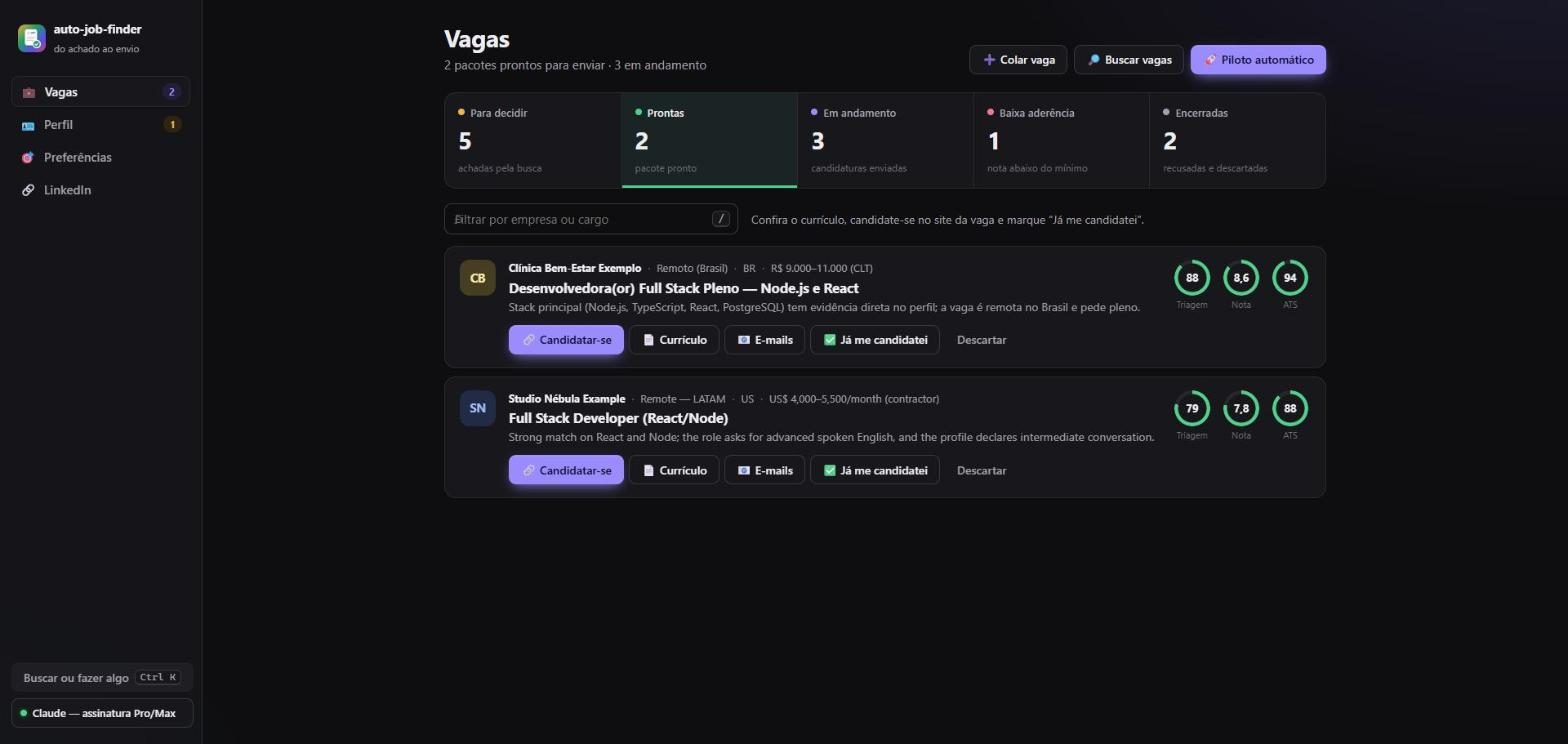
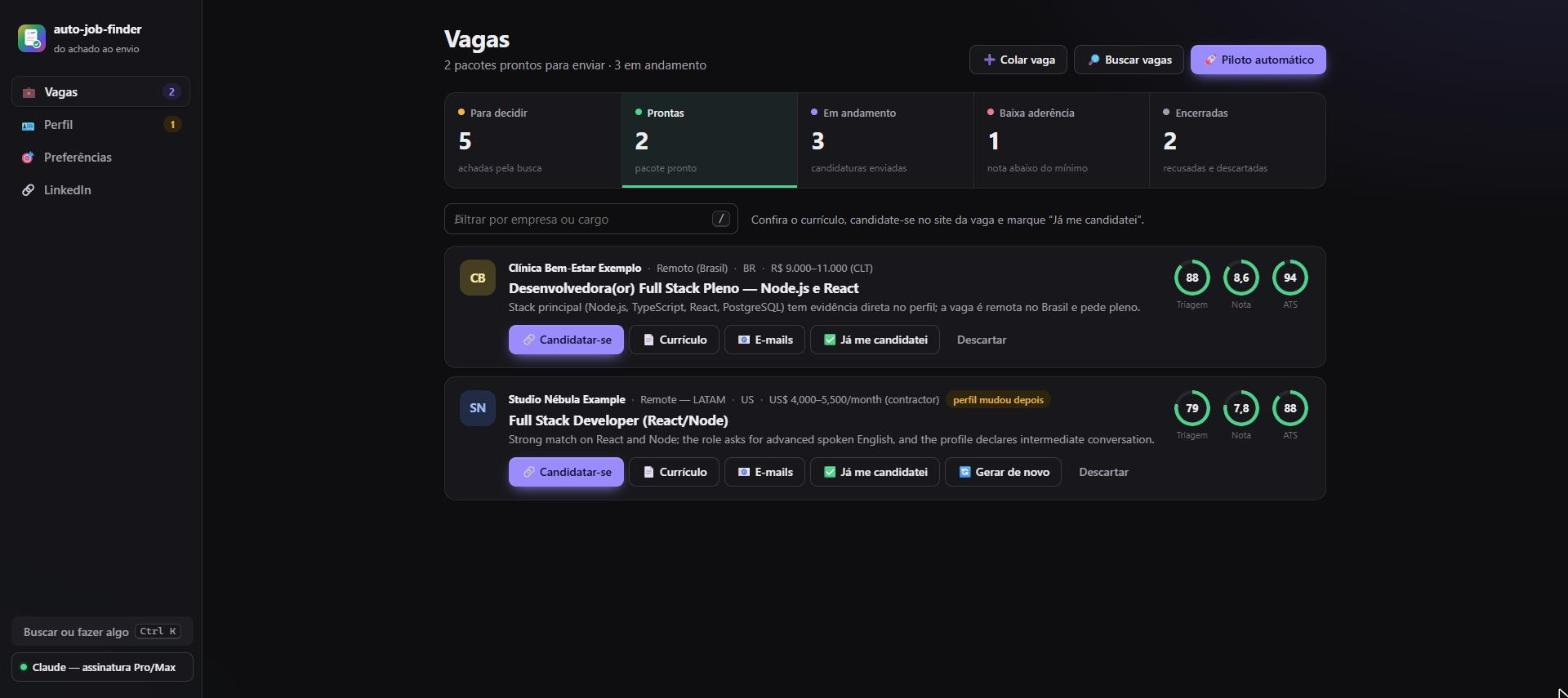
docs: atualizar o perfil e conferir o LinkedIn
Guia de uso (passo a passo com prints, comandos, dúvidas), como funciona (diagrama do fluxo de atualização e seção do LinkedIn), README e CLAUDE.md/AGENTS.md.

diff --git a/docs/guia-de-uso.md b/docs/guia-de-uso.md
@@ -87,7 +87,29 @@ A página **Perfil** é a parte mais importante. **Tudo o que o agente escreve s
 - **Pontos a confirmar:** a IA marca o que estava faltando ou não batia entre as fontes. Corrija no texto e troque `- [ ]` por `- [x]`.
 - **Editor do `profile_truth.md`:** ajuste o que quiser. Mantenha os títulos das seções (linhas com `##`). As seções "Lacunas", "A confirmar", "Nunca afirmar" e "Regras de comunicação" **não** contam como prova de nada; elas existem para o agente saber o que você *não* tem. Cada vez que você salva, a versão anterior vai para `profile/backup-edicoes/`.
 - **PDFs de conferência:** o currículo-base em português e em inglês, para ver como fica.
-- **Montar de novo:** refaz o perfil com fontes novas. O atual só é trocado no fim e vai para um backup.
+- **Montar de novo:** refaz o perfil do zero com fontes novas. O atual só é trocado no fim e vai para um backup.
+
+### Atualizar o perfil depois
+
+Fez um projeto novo, mudou de emprego, terminou um curso? Não precisa montar tudo de novo. Em **Perfil → 🆕 Atualizar o perfil**, clique em **➕ Contar uma novidade**:
+
+![Contar uma novidade](images/contar-novidade.jpg)
+
+1. **Conte com as suas palavras**, com datas e números reais (por exemplo, "Em 10/2026 saí da Empresa A e entrei na Empresa B como Desenvolvedora Pleno"). Também dá para mandar um currículo atualizado, o PDF do LinkedIn ou um link.
+2. **A IA prepara uma proposta.** Ela usa só o que você contou: o que faltar (a data de início, as atividades do cargo novo) vira "a confirmar".
+3. **Você confere o antes e o depois**, linha por linha, antes de salvar:
+
+   ![Proposta de atualização com o antes e o depois](images/perfil-atualizar.jpg)
+
+4. **✅ Aplicar e refazer os currículos:** o perfil atual vai para um backup, o `profile_truth.md` é atualizado e os currículos-base em português e inglês são refeitos, mantendo a redação do que não mudou. Leva alguns minutos.
+
+Depois de aplicar:
+- **Pacotes prontos feitos antes da mudança** aparecem com o aviso **"perfil mudou depois"** e o botão **🔄 Gerar de novo**. Candidaturas já enviadas não são marcadas.
+- **O plano do LinkedIn** avisa que ficou desatualizado (veja [LinkedIn](#8-linkedin)).
+
+**Editou o texto do perfil à mão?** Pequenas mudanças (um projeto, um resultado, uma ferramenta) já valem para os próximos pacotes. Mas, se você mexeu numa **experiência** (emprego novo, cargo, datas), clique em **🔄 Refazer currículos-base**: as travas só aceitam experiências que estão nos currículos-base, e eles não mudam sozinhos quando você edita o texto.
+
+> Se você editar o perfil depois de uma proposta pronta, ela não pode mais ser aplicada: descarte e conte a novidade de novo. Assim nada do que você editou à mão se perde.
 
 ## 4. O dia a dia: das vagas à candidatura
 
@@ -203,7 +225,22 @@ Fontes de vagas:
 
 ## 8. LinkedIn
 
-Na página **LinkedIn**, o agente monta um plano para o seu perfil atrair recrutadores das vagas que você quer: headline, "Sobre" em português e inglês, competências, destaques e Open to Work, tudo com fatos do seu perfil. Cole o texto atual do seu LinkedIn para ele apontar o que está inconsistente. **Ele nunca muda o seu LinkedIn**: você copia o que quiser.
+![Conferência do LinkedIn](images/linkedin.jpg)
+
+**O agente nunca acessa nem muda o seu LinkedIn.** O LinkedIn bloqueia programas, e a regra do projeto é você aplicar o que quiser. Por isso, para ele saber como o seu perfil está hoje, mande:
+- o **PDF do perfil**: no LinkedIn, **Mais → Salvar como PDF**, e depois **📄 Enviar o PDF do LinkedIn**; ou
+- o **texto** do perfil, colado na caixa.
+
+Com isso, você tem duas opções:
+
+| | O que faz | Quando usar |
+|---|---|---|
+| **✅ Conferir meu LinkedIn** | Compara o seu LinkedIn de hoje com o seu perfil e com o último plano. Mostra o que **corrigir** (datas, cargos, "certificado" que é curso, nível de idioma), o que **do plano ainda falta** e o que **já está certo** | Depois de mexer no LinkedIn, para ver o seu progresso. É rápido |
+| **✨ Gerar plano novo** | Escreve tudo de novo: headline, "Sobre" em português e inglês, experiências, competências, destaques, Open to Work e checklist | Na primeira vez, ou depois de mudar de objetivo ou de [atualizar o perfil](#atualizar-o-perfil-depois) |
+
+- **Cada plano e cada conferência é um retrato do dia em que foi gerado.** Eles não se atualizam sozinhos.
+- **Se o seu perfil mudar depois do plano,** a página avisa e sugere um plano novo.
+- **Os anteriores** ficam no **Histórico**.
 
 ## 9. A IA: escolher, testar e diagnosticar
 
@@ -226,6 +263,8 @@ profile/                   o seu perfil
   preferences.json         preferências de busca
   rules.json               frases que o agente nunca pode escrever
   sources/  entrada/       o texto lido das suas fontes e os arquivos enviados pela interface
+  atualizacao/             a proposta de atualização, até você aplicar ou descartar
+  backup-*/                versões anteriores do perfil (a cada "montar de novo", atualização ou edição)
 data/
   jobs.json                todas as vagas e o status de cada uma
   usage.jsonl              tokens usados em cada chamada de IA
@@ -234,7 +273,7 @@ output/
   2-em-andamento/          enviada, entrevista ou oferta
   3-baixa-aderencia/       nota abaixo do mínimo
   4-encerradas/            recusada ou descartada
-  base/  linkedin/         PDFs de conferência e planos de LinkedIn
+  base/  linkedin/         PDFs de conferência, planos e conferências do LinkedIn
   painel.html  tracker.csv resumo estático e histórico de status
 ```
 
@@ -264,17 +303,18 @@ Tudo da interface também existe no terminal.
 |---|---|
 | `ajf` · `ajf ui [--port 4317] [--no-open]` | Interface no navegador |
 | `ajf menu` | Menu no terminal |
-| `ajf init [arquivos ou links...]` | Monta ou refaz o perfil |
+| `ajf init [arquivos ou links...]` | Monta o perfil do zero |
+| `ajf atualizar [arquivos ou links...] [--texto "..."]` | Atualiza o perfil com uma novidade: mostra o antes e o depois e, se você aprovar, refaz os currículos-base. `--aplicar` aplica a proposta salva (feita aqui ou na interface), `--descartar` descarta, `-y` aplica sem perguntar |
 | `ajf ia [--escolher] [--testar]` | IAs encontradas e qual usar |
 | `ajf doctor` | Confere IA, navegador e arquivos do perfil |
-| `ajf base` | PDFs do currículo-base (sem IA) |
+| `ajf base [--refazer]` | PDFs do currículo-base (sem IA). Com `--refazer`, refaz os currículos-base a partir do `profile_truth.md` (usa IA) |
 | `ajf search [--web] [--hint "só Londrina"] [-q termos] [-s fontes] [-v]` | Busca vagas (`-v` mostra o que o filtro cortou) |
 | `ajf triage [--id <ids...>] [-l 10]` | Triagem das vagas novas, ou de novo das indicadas |
 | `ajf jobs [--status shortlisted] [-a]` · `ajf show <id>` | Lista e detalhes |
 | `ajf add --file vaga.md --company X --title Y` · `ajf add --url <link>` | Adiciona uma vaga |
 | `ajf tailor <id> [--interview] [--market US] [--lang en] [--paper Letter] [--cover/--no-cover]` | Gera o pacote |
 | `ajf render <pasta ou id>` | PDF de novo depois de editar `resume.json` |
-| `ajf linkedin [--current meu_linkedin.md]` | Plano de LinkedIn |
+| `ajf linkedin [--current perfil.pdf]` · `ajf linkedin --conferir --current perfil.pdf` | Plano de LinkedIn, ou a conferência do LinkedIn atual (PDF exportado ou texto em `.md`/`.txt`) |
 | `ajf enviei [empresa ou cargo] [--note "via Gupy"]` | Marca que você se candidatou (acha a vaga pelo nome) |
 | `ajf status [empresa, cargo ou id] [status]` | Muda o status (entrevista, oferta, recusa...) |
 | `ajf auto [--web/--no-web] [--max 3] [--interview] [--open]` | Piloto automático |
@@ -302,6 +342,12 @@ O agente não achou um navegador Chromium. Instale o Chrome, ou informe o caminh
 - Ligue a **busca na web com IA**: as fontes padrão são, em boa parte, de vagas internacionais, e a web traz LinkedIn, Gupy e Indeed.
 - Veja no andamento da busca quantas vagas cada filtro cortou, e afrouxe os **filtros pelo título** em Preferências.
 - Baixe a **triagem mínima** (por exemplo, para 60) e olhe a etapa "Para decidir".
+
+**Fiz um projeto novo ou mudei de emprego. Como atualizo?**
+Em **Perfil → ➕ Contar uma novidade** (ou `ajf atualizar --texto "..."`). Você confere o antes e o depois, e os currículos-base são refeitos. Depois, gere de novo os pacotes prontos marcados com "perfil mudou depois". Veja [Atualizar o perfil depois](#atualizar-o-perfil-depois).
+
+**O plano do LinkedIn mostra coisas que eu já mudei.**
+O plano é um retrato do dia em que foi gerado, e o agente não acessa o LinkedIn. Mande o PDF ou o texto atual do seu LinkedIn e clique em **✅ Conferir meu LinkedIn**: ele mostra o que já está certo e o que ainda falta. Veja [LinkedIn](#8-linkedin).
 
 **O LinkedIn não é lido.**
 O LinkedIn bloqueia leitura automática. No cadastro, use o PDF do perfil (**Mais → Salvar como PDF**); para vagas, cole o texto.

diff --git a/docs/como-funciona.md b/docs/como-funciona.md
@@ -9,6 +9,7 @@ Como o auto-job-finder vai de "tenho um currículo" a "pacote pronto para enviar
 - [4. O pacote de cada vaga](#4-o-pacote-de-cada-vaga)
 - [Anti-invenção](#anti-invenção)
 - [O caminho de uma vaga](#o-caminho-de-uma-vaga)
+- [LinkedIn](#linkedin)
 - [As IAs](#as-ias)
 - [A interface local](#a-interface-local)
 - [Organização do código](#organização-do-código)
@@ -46,6 +47,30 @@ Como funciona a montagem:
 3. Escreve os currículos-base (`buildBaseResume`).
 
 A instrução para a IA é a mesma em todas as etapas: **só registrar o que está nas fontes**. O que falta ou diverge entre as fontes vira "A confirmar".
+
+### Atualizar sem montar de novo
+
+Quando a carreira muda, `src/onboarding/update.ts` atualiza o perfil a partir de uma novidade:
+
+```mermaid
+flowchart LR
+    A["🆕 Novidade<br/>texto, currículo,<br/>PDF do LinkedIn, link"] --> B["🧠 Proposta<br/>profile_truth.md atualizado<br/>+ o que mudou + a confirmar"]
+    B --> C{"👀 Você confere<br/>o antes e o depois"}
+    C -- descartar --> X["nada muda"]
+    C -- aplicar --> D["💾 Backup do perfil<br/>+ profile_truth.md novo"]
+    D --> E["📄 Currículos-base refeitos<br/>mantendo a redação<br/>do que não mudou"]
+    E --> F["⚠ Pacotes prontos antigos<br/>marcados como desatualizados"]
+```
+
+- **A proposta** fica salva em `profile/atualizacao/proposta.json`, então dá para fechar o `ajf` e voltar depois. Ela guarda um hash do perfil da hora em que foi feita: se você editar o perfil depois, ela não pode mais ser aplicada, para nada do que você editou à mão se perder.
+- **Regras para a IA:**
+  - mantém os títulos das seções e o texto que não mudou;
+  - experiência nova entra em ordem cronológica;
+  - curso não vira certificação;
+  - o que faltar vai para "A confirmar";
+  - uma proposta que tire alguma seção do perfil é recusada.
+- **Por que refazer os currículos-base:** as travas só aceitam experiências que estão nos currículos-base. Um emprego novo só no `profile_truth.md` faria o pacote sair com violação. O `rebuildBaseResumes` passa o currículo-base atual para a IA atualizar, em vez de escrever do zero; também dá para chamar sozinho, depois de editar o perfil à mão.
+- **Pacote desatualizado:** um pacote pronto ou de baixa aderência é marcado quando o perfil ou os currículos-base mudaram depois que ele foi gerado. A comparação é entre as datas de modificação dos arquivos.
 
 ## 2. Busca e filtro
 
@@ -142,6 +167,17 @@ Cada mudança de status:
 - fica registrada em `output/tracker.csv`;
 - move a pasta do pacote para a subpasta da etapa (`src/jobs/folders.ts`), mantendo os caminhos em `data/jobs.json` em sincronia.
 
+## LinkedIn
+
+`src/writers/linkedin.ts` faz duas coisas, sem nunca acessar o LinkedIn: o LinkedIn bloqueia programas, e o agente não muda nada em nome da pessoa.
+- **Plano:** headline, "Sobre" em português e inglês, experiências, competências, destaques, Open to Work e checklist, só com fatos do perfil.
+- **Conferência:** recebe o LinkedIn de hoje (o PDF exportado com "Salvar como PDF", lido como no cadastro, ou o texto) e compara com o `profile_truth.md` e com o último plano. Devolve:
+  - o que **corrigir**, com a correção;
+  - o que **do plano ainda falta**;
+  - o que **já está certo**.
+
+Cada plano e cada conferência vira um arquivo em `output/linkedin/` com a data. A interface mostra os mais recentes, o histórico e avisa quando o perfil mudou depois do plano.
+
 ## As IAs
 
 Todas as chamadas passam por `src/llm.ts`, então os provedores são intercambiáveis. A detecção (`src/providers/index.ts`) procura nesta ordem:
@@ -188,6 +224,7 @@ src/
   llm.ts                 ponto único de acesso à IA
   providers/             cada IA + detecção (spawn.ts acha as CLIs instaladas)
   onboarding/            cadastro: leitura de PDF/DOCX/LinkedIn/sites/GitHub, entrevista, montagem
+    update.ts            atualizar com uma novidade (proposta, aplicar) e refazer os currículos-base
   profile.ts             leitura do perfil, preferências e regras
   prompts.ts · schemas.ts · market.ts
   jobs/
@@ -202,14 +239,14 @@ src/
     refine.ts            loop recrutador ⇄ editor
     guards.ts            travas anti-invenção
     ats.ts               relatório ATS
-  writers/               carta, e-mails, guia de entrevista, plano de LinkedIn
+  writers/               carta, e-mails, guia de entrevista, plano e conferência do LinkedIn
   render/                template HTML → PDF (navegador headless)
   ui/
     server.ts http.ts    servidor local, segurança, arquivos
-    routes/              API: vagas, perfil e cadastro, preferências
+    routes/              API: vagas, perfil (cadastro e atualização), LinkedIn, preferências
     tasks.ts             fila de tarefas
     public/              a página: index.html, app.css, logo.svg, js/
-  util/                  texto, abrir links e pastas (sem shell)
+  util/                  texto, comparação linha a linha (diff), abrir links e pastas (sem shell)
 scripts/demo.ts          npm run demo: dados fictícios para testar a interface
 examples/profile/        perfil fictício (referência de formato e testes)
 tests/                   testes offline (npm test)

diff --git a/README.md b/README.md
@@ -33,7 +33,8 @@
    - e-mail de candidatura, mensagens para o recrutador, follow-up e agradecimento;
    - o passo a passo para se candidatar pelo canal certo.
 4. **Acompanha as candidaturas:** lembra do follow-up, prepara um guia de entrevista e registra oferta ou recusa.
-5. **Monta um plano para o seu LinkedIn** atrair recrutadores.
+5. **Cuida do seu LinkedIn:** monta um plano para atrair recrutadores e confere o seu perfil de hoje, mostrando o que já está certo, o que falta e o que corrigir.
+6. **Acompanha a sua carreira:** conte uma novidade (projeto, emprego, curso) e a IA propõe as mudanças no perfil. Você confere o antes e o depois, e os currículos são refeitos.
 
 Funciona com a IA que você **já tem**: assinatura do **Claude**, do **ChatGPT** (Codex) ou conta **Google** (Gemini), sem chave de API. Também aceita APIs: Anthropic, OpenAI ou compatível (OpenRouter, Groq, Ollama), Gemini, Amazon Bedrock e Google Vertex.
 
@@ -79,6 +80,7 @@ Na primeira vez, ele abre no **cadastro do perfil**: arraste o seu currículo e 
 2. Em **Para decidir**, gere o pacote das vagas que valem a pena.
 3. Em **Prontas**, confira o currículo, candidate-se e clique em **✅ Já me candidatei**.
 4. Em **Em andamento**, mande o follow-up e registre entrevista, oferta ou recusa.
+5. Quando a sua carreira mudar, use **Perfil → ➕ Contar uma novidade**.
 
 O passo a passo completo, com cada tela, está no **[guia de uso](docs/guia-de-uso.md)**.
 
@@ -88,6 +90,8 @@ O passo a passo completo, com cada tela, está no **[guia de uso](docs/guia-de-u
 |---|---|
 | ![Detalhes da vaga: o que você já tem e as lacunas](docs/images/detalhes-resumo.jpg) | ![E-mails e mensagens prontos para copiar](docs/images/detalhes-emails.jpg) |
 | **Detalhes da vaga:** o que você já tem, com evidência no seu perfil, e as lacunas | **E-mails e mensagens:** candidatura, LinkedIn e follow-up, com botão de copiar |
+| ![Proposta de atualização do perfil com o antes e o depois](docs/images/perfil-atualizar.jpg) | ![Conferência do LinkedIn](docs/images/linkedin.jpg) |
+| **Atualizar o perfil:** conte uma novidade e confira o antes e o depois antes de salvar | **LinkedIn:** o que corrigir, o que do plano falta e o que já está certo |
 | ![Perfil com pontos a confirmar e editor](docs/images/perfil.jpg) | ![Paleta de comandos com Ctrl+K](docs/images/paleta.jpg) |
 | **Perfil:** a fonte única de fatos, com o que falta confirmar | **Ctrl+K:** ache qualquer vaga ou ação digitando |
 

diff --git a/AGENTS.md b/AGENTS.md
@@ -15,6 +15,8 @@ Job-application agent for anyone, in any field (TypeScript, Node 22.12+). CLI en
 - Per-person data lives under `AJF_HOME` (default: the repo root) in `profile/`, `data/` and `output/`.
 - All three are gitignored. Never commit personal data.
 - `ajf init` and the UI wizard (`src/onboarding/`) build the profile from a resume, a LinkedIn PDF export, a portfolio, links, pasted text or a guided interview. UI uploads are saved in `profile/entrada/`.
+- Profile updates go through `src/onboarding/update.ts`: a proposal (`profile/atualizacao/proposta.json`, with the hash of the truth it was based on) that the user approves after seeing a line diff, then `rebuildBaseResumes` updates `base_resume.*.json` from the truth. New experiences must reach the base resumes, because the guards reject experiences missing from them. `ajf atualizar`, `ajf base --refazer` and Perfil → "Atualizar o perfil" in the UI are the entry points.
+- The agent never reads or edits LinkedIn. `src/writers/linkedin.ts` writes plans and checks (`output/linkedin/plano_*` and `conferencia_*`) from the text or PDF export the user provides.
 - Package folders live in `output/1-prontas-para-enviar`, `2-em-andamento`, `3-baixa-aderencia` or `4-encerradas` by status (`src/jobs/folders.ts`). Change status and paths through `jobs/store.ts#updateJob` (or `jobs/status.ts#changeStatus`), which moves the folder and keeps `outputDir`/`files` in `data/jobs.json` in sync.
 - `examples/profile/` is a fictional profile used by the tests (`tests/setup.ts` sets `AJF_HOME=examples`).
 

diff --git a/CLAUDE.md b/CLAUDE.md
@@ -15,6 +15,8 @@ Job-application agent for anyone, in any field (TypeScript, Node 22.12+). CLI en
 - Per-person data lives under `AJF_HOME` (default: the repo root) in `profile/`, `data/` and `output/`.
 - All three are gitignored. Never commit personal data.
 - `ajf init` and the UI wizard (`src/onboarding/`) build the profile from a resume, a LinkedIn PDF export, a portfolio, links, pasted text or a guided interview. UI uploads are saved in `profile/entrada/`.
+- Profile updates go through `src/onboarding/update.ts`: a proposal (`profile/atualizacao/proposta.json`, with the hash of the truth it was based on) that the user approves after seeing a line diff, then `rebuildBaseResumes` updates `base_resume.*.json` from the truth. New experiences must reach the base resumes, because the guards reject experiences missing from them. `ajf atualizar`, `ajf base --refazer` and Perfil → "Atualizar o perfil" in the UI are the entry points.
+- The agent never reads or edits LinkedIn. `src/writers/linkedin.ts` writes plans and checks (`output/linkedin/plano_*` and `conferencia_*`) from the text or PDF export the user provides.
 - Package folders live in `output/1-prontas-para-enviar`, `2-em-andamento`, `3-baixa-aderencia` or `4-encerradas` by status (`src/jobs/folders.ts`). Change status and paths through `jobs/store.ts#updateJob` (or `jobs/status.ts#changeStatus`), which moves the folder and keeps `outputDir`/`files` in `data/jobs.json` in sync.
 - `examples/profile/` is a fictional profile used by the tests (`tests/setup.ts` sets `AJF_HOME=examples`).
 
